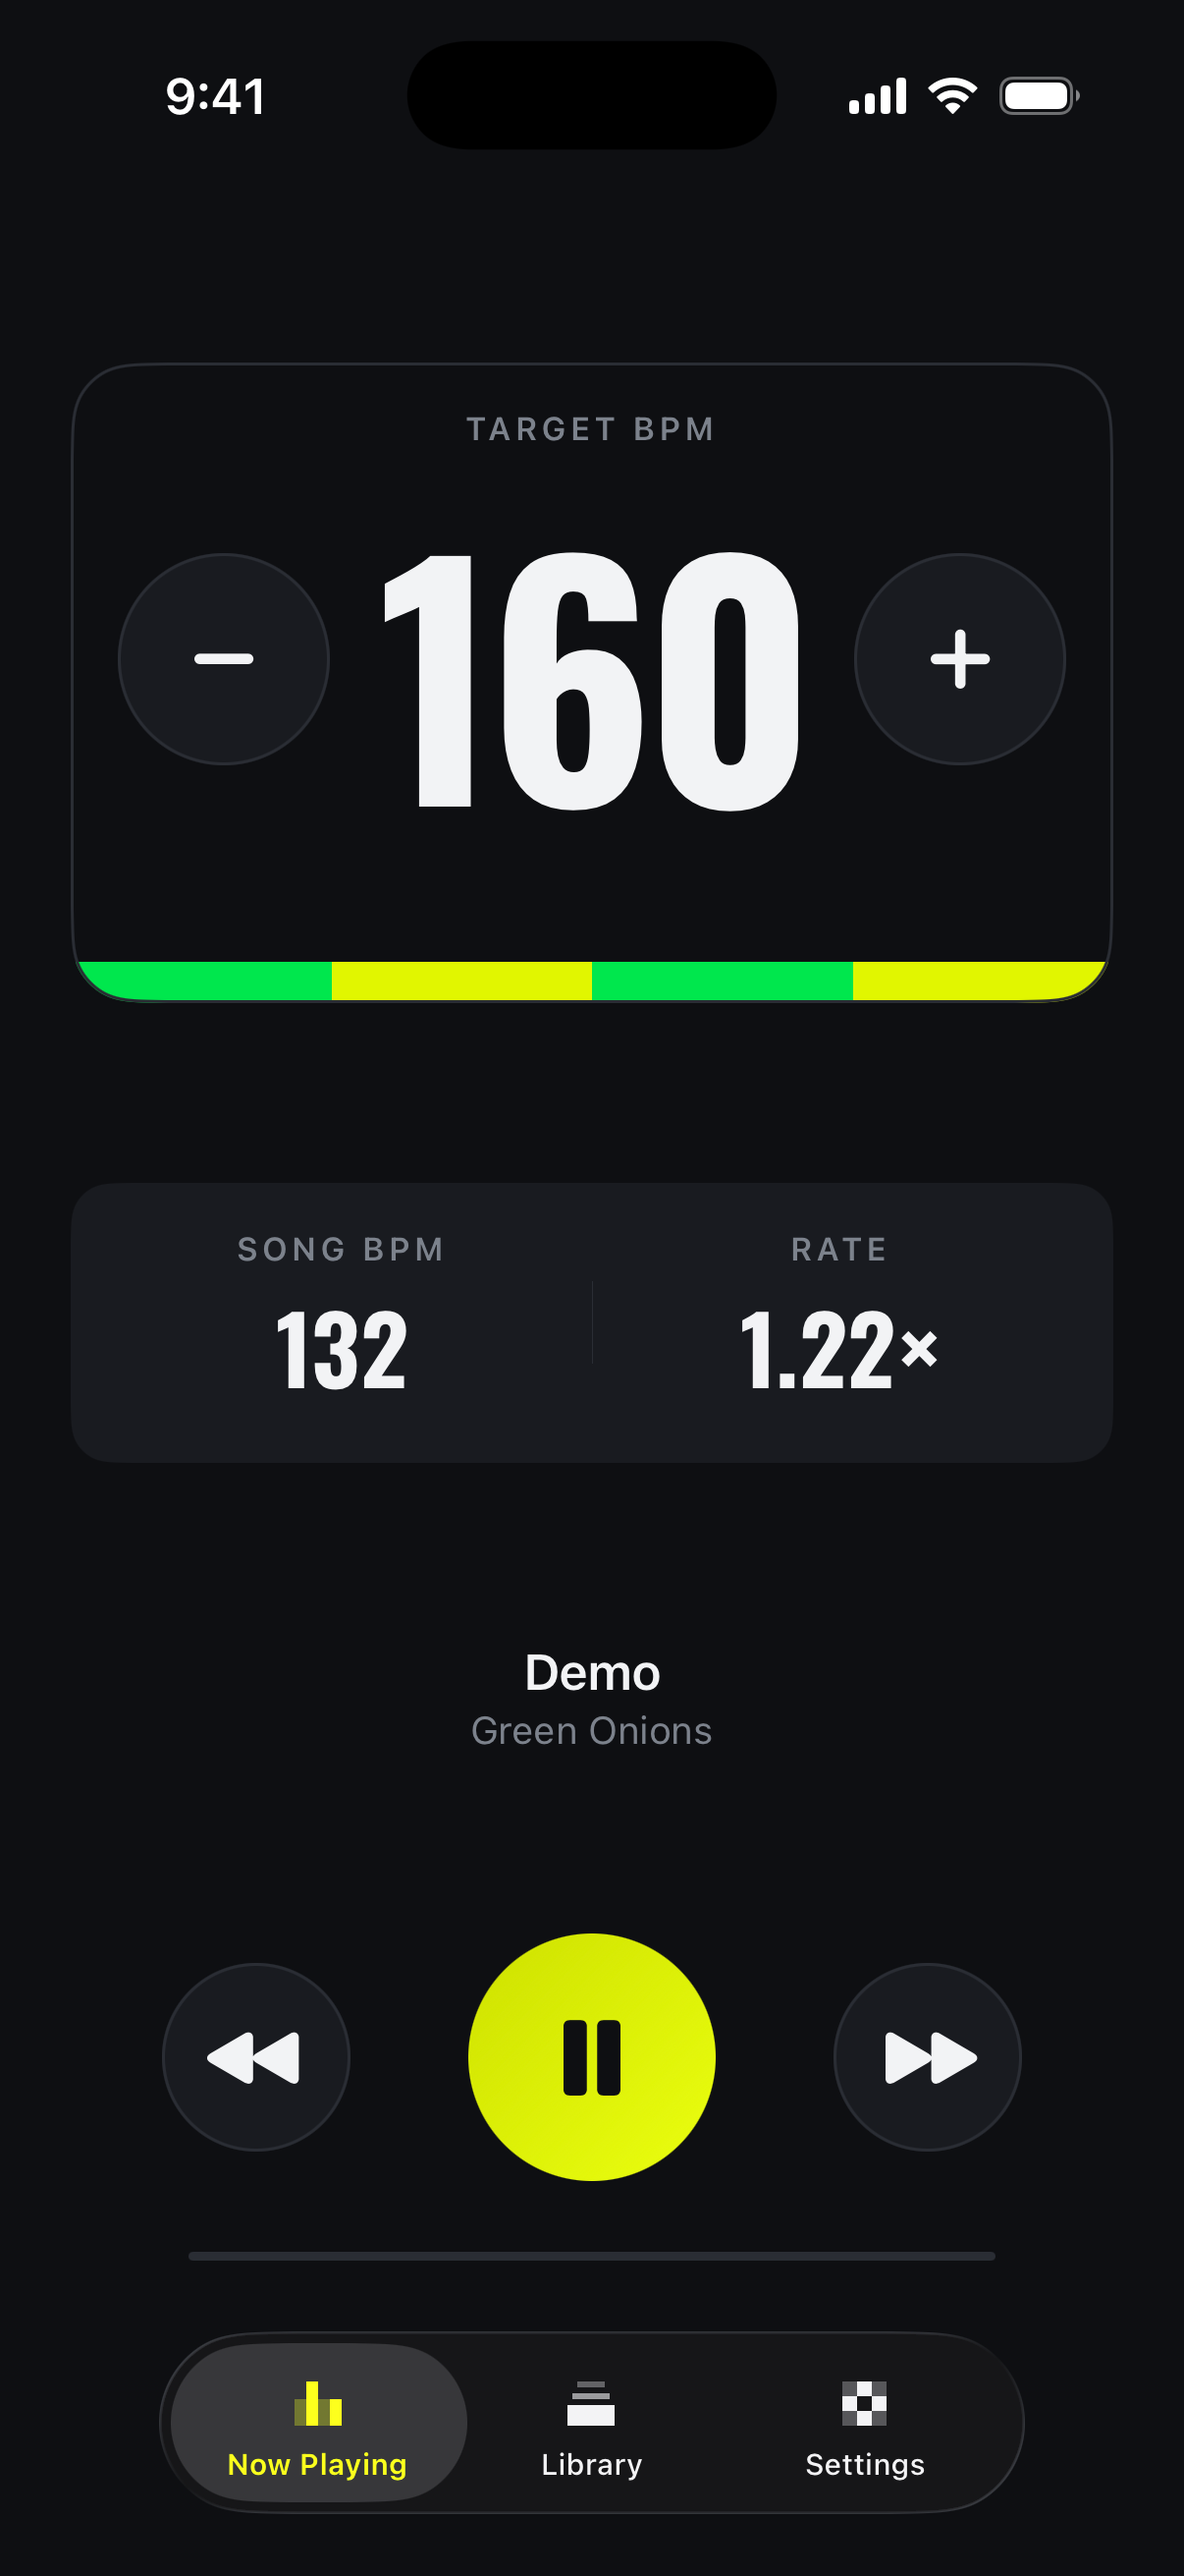
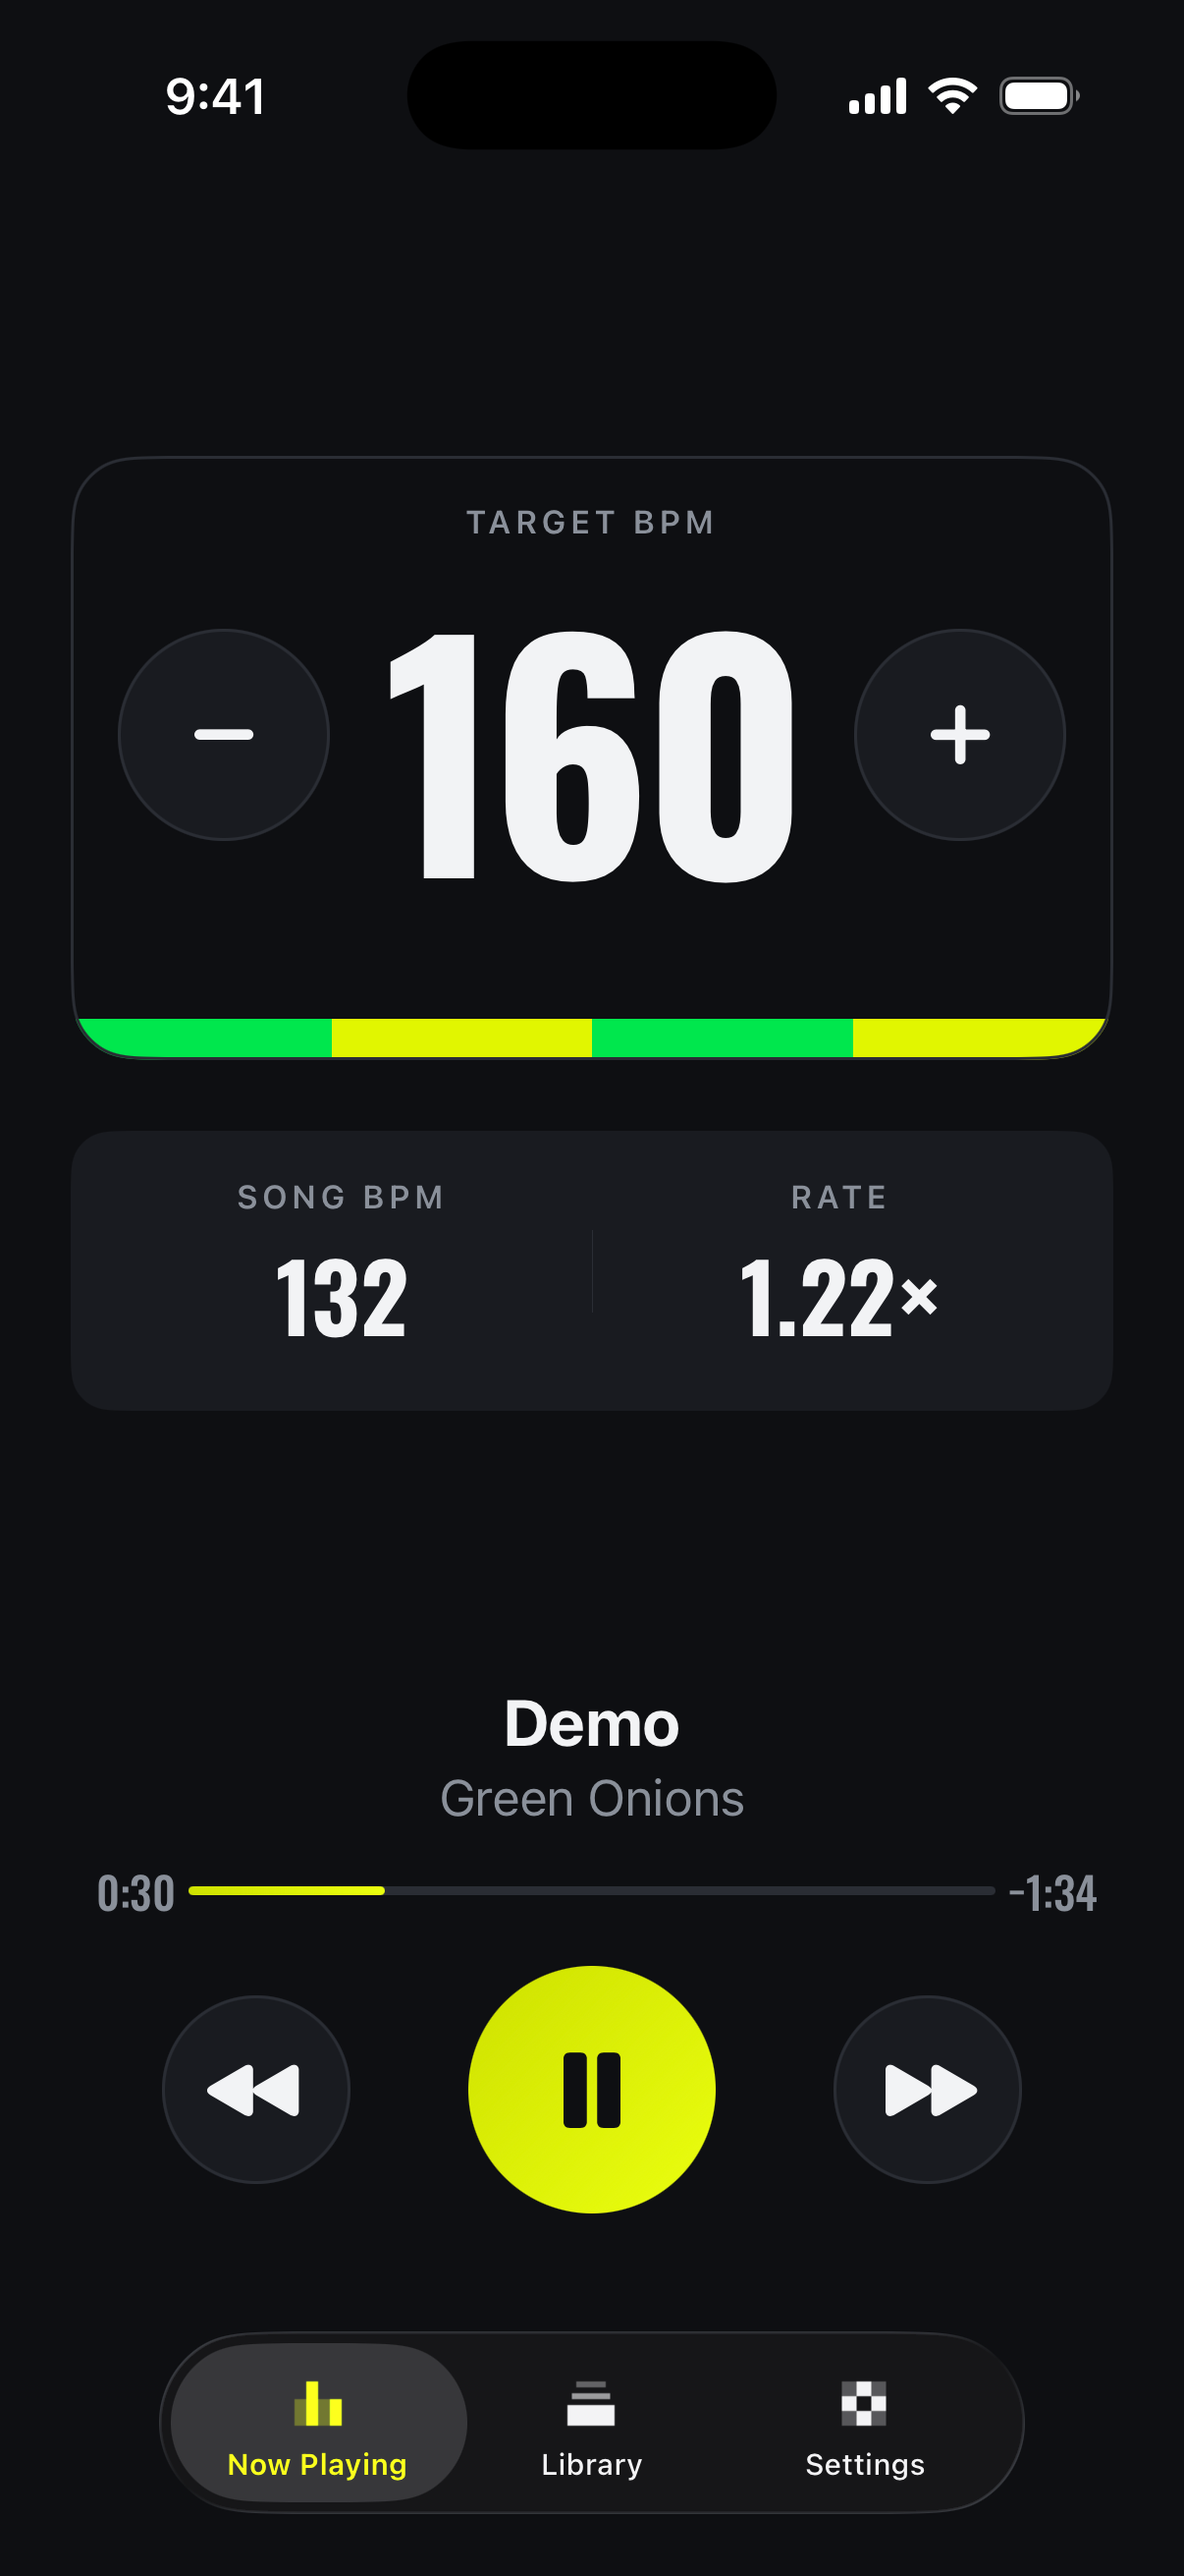
Ready the site for app 1.3: one speed range, Smart match, new hero
Ships with app 1.3, not before (this branch merges to main at release).

The pitch answer (Questions section and its structured data) and the
support page said Apple Music holds 0.9x to 1.7x and that songs dim when
they don't fit the cadence. In 1.3 Apple Music takes the same range as
files and nothing dims for the pace, so both now describe Smart match.
The support page also gets a "How far does a song get stretched?"
answer, loses the BPM editor's "Tap the beat" (Tap Tempo was removed in
1.1), gains its Skip switch, and reads version 1.3.

The hero is re-shot on the iPhone 17 simulator at the same 1206x2622 and
the same reading (160 target, 132 song, 1.22x), now in the Now Playing
layout 1.2 and 1.3 ship: song, scrubber with times, then transport.

diff --git a/support.html b/support.html
@@ -71,7 +71,7 @@ footer a:hover{color:var(--lime);border-color:var(--lime)}
 <main>
   <div class="wrap">
     <h1>Support</h1>
-    <p class="updated">Green Onions for iPhone · version 1.1</p>
+    <p class="updated">Green Onions for iPhone · version 1.3</p>
 
     <div class="contact">
       <p class="lbl">Email</p>
@@ -170,10 +170,18 @@ footer a:hover{color:var(--lime);border-color:var(--lime)}
 
     <h3>Why are some songs dimmed?</h3>
     <p>
-      They don't fit your current cadence. Reaching them would mean stretching the song further
-      than it survives, so they sit out rather than play badly. Change your pace and they light
-      back up. Files you own stretch between half and double speed; Apple Music holds a narrower
-      window, 0.9× to 1.7×, because that's what the system player allows.
+      Either you set the song to skip, or it's an Apple Music song with no BPM yet. Tap it to
+      unskip it or type its BPM in. A song is never dimmed for your cadence. If one can't reach
+      your target, it's skipped when it comes up.
+    </p>
+
+    <h3>How far does a song get stretched?</h3>
+    <p>
+      With <strong>Smart match</strong> on, which is the default, never past double speed and
+      usually far less, because a slow song plays at double time instead. A 75 BPM song under a
+      150 cadence plays at its own speed, two steps to every beat. Turn Smart match off in
+      <strong>Settings</strong> and every song stretches straight to your target, up to three
+      times its speed, however it sounds. Apple Music and your own files work the same way.
     </p>
 
     <h3>A song's BPM was detected wrong. How do I fix it?</h3>
@@ -181,11 +189,12 @@ footer a:hover{color:var(--lime);border-color:var(--lime)}
       Tap the BPM shown next to any song in your Library. That opens an editor where you can:
     </p>
     <ul>
-      <li><strong>Tap the beat</strong> along with the song to set it by feel.</li>
       <li><strong>Halve or double it</strong> with ÷2 and ×2 — this is the fix for the most common
       detection mistake, where a song is read at half or twice its real tempo.</li>
       <li><strong>Type a number</strong> in directly.</li>
       <li><strong>Revert to detected</strong> if you want the app's own answer back.</li>
+      <li><strong>Skip it</strong> if it never sounds right at your cadence. It stays in your
+        Library and never plays.</li>
     </ul>
     <p>
       A BPM you set by hand is kept — automatic detection won't overwrite it later.

diff --git a/index.html b/index.html
@@ -63,7 +63,7 @@
      "name": "Does it change the pitch?",
      "acceptedAnswer": {
       "@type": "Answer",
-      "text": "No. Songs speed up or slow down and stay in their original key. Files you own stretch between half and double speed. Apple Music holds a narrower window, 0.9× to 1.7×, because that is what the system player allows."
+      "text": "No. Songs speed up or slow down and stay in their original key, from Apple Music and from your own files alike. Slow songs play at double time instead of being stretched to breaking."
      }
     },
     {
@@ -962,9 +962,9 @@ footer nav{display:flex;gap:22px;flex-wrap:wrap}
       </div>
       <div>
         <h3>Does it change the pitch?</h3>
-        <p>No. Songs speed up or slow down and stay in their original key. Files you own
-        stretch between half and double speed. Apple Music holds a narrower window,
-        0.9× to 1.7×, because that is what the system player allows.</p>
+        <p>No. Songs speed up or slow down and stay in their original key, from Apple
+        Music and from your own files alike. Slow songs play at double time instead of
+        being stretched to breaking.</p>
       </div>
       <div>
         <h3>Does it measure my cadence?</h3>
